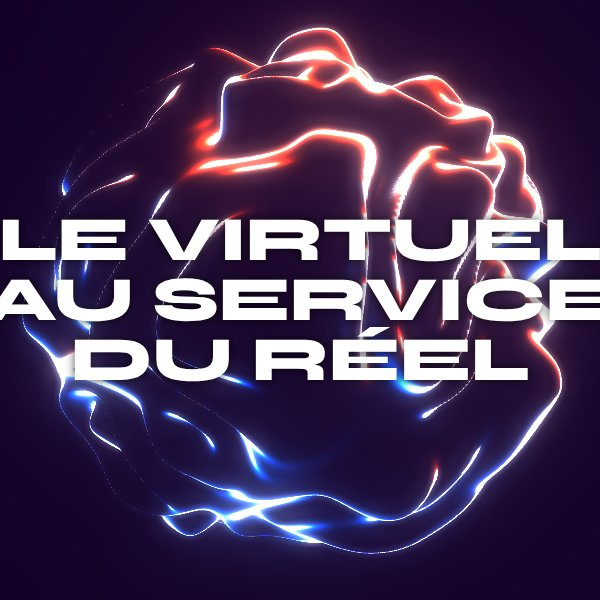
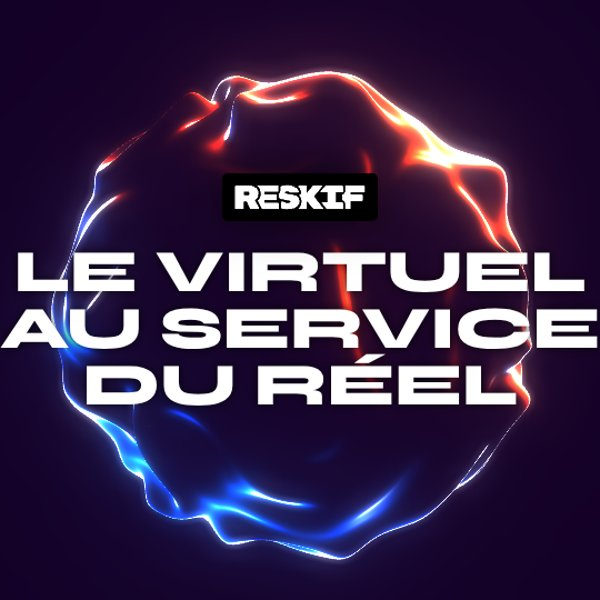
Publication de Reskif (sphere/) : README, accueil, aperçu
- README : description à jour, lien en ligne, section sur la page
  autonome, ses dépendances et ses crédits et licences.
- Accueil : texte de la carte à jour, nouvel aperçu avec le logo.
- sphere/ : retrait des accès de test (reskifState, reskifSeek).

Claude-Session: https://claude.ai/code/session_01Bq8Qq4xFTKRJJcn1Prkq3z

diff --git a/index.html b/index.html
@@ -228,14 +228,15 @@
     <div class="text">
       <span class="kicker">sphere</span>
       <h2>Reskif : le virtuel au service du réel</h2>
-      <p>L'Organic Sphere de Bruno Simon accueille : on plonge dedans pour découvrir Reskif.
-      Un arbre pousse et mène à quatre profils, chacun son élément : le feu, l'air
-      (The Spirit d'Edan Kwan), l'eau, et une statue qui se reconstruit éclat par éclat.</p>
+      <p>Le site de Reskif, en panneaux plein écran. L'Organic Sphere de Bruno Simon
+      rapetisse et tombe dans une flaque ; un arbre procédural en sort et mène à quatre
+      profils, chacun son élément : le feu, l'air (The Spirit d'Edan Kwan), l'eau, et une
+      statue qui se reconstruit éclat par éclat.</p>
       <span class="go">Jouer avec <span>→</span></span>
     </div>
     <div class="strip" style="grid-template-columns:1fr 1fr;background:#0a0414">
       <img src="sphere/apercu-arbre.jpg" alt="Un arbre lumineux, tronc orange et cime bleue" loading="lazy" style="object-fit:cover;aspect-ratio:auto">
-      <img src="sphere/apercu.jpg" alt="La sphère organique, lumineuse, sous le titre Le virtuel au service du réel" loading="lazy" style="object-fit:cover;aspect-ratio:auto">
+      <img src="sphere/apercu.jpg" alt="Le logo Reskif et le titre Le virtuel au service du réel sur la sphère organique" loading="lazy" style="object-fit:cover;aspect-ratio:auto">
     </div>
   </a>
 

diff --git a/sphere/index.html b/sphere/index.html
@@ -2348,9 +2348,6 @@ void main() {
     requestAnimationFrame(tick);
   }
   setView(0);
-  // Lecture seule, pour les tests : où en est l'animation.
-  window.reskifState = () => ({ P, B, branch });
-  window.reskifSeek = v => { P = target = v; };      // pour les tests : figer l'animation à un instant
   requestAnimationFrame(tick);
 })();
 </script>

diff --git a/README.md b/README.md
@@ -14,8 +14,24 @@ piste, avec le script qui fabrique et la planche qui montre le résultat.
 | [`photo/aplats/`](photo/aplats/) | aplats francs, contours noirs et traits de vibration à la Keith Haring, posés sans IA sur n'importe quelle photo |
 | [`photo/aplats/web/`](photo/aplats/web/) | les aplats de `figures.py` calculés par le navigateur, et animés : ils évitent le curseur, un clic les déplace |
 | [`gigot/`](gigot/) | design system de gigot.app : palette, logo, pictogramme, bouton animé et aplats sur photo, façon Keith Haring |
-| [`sphere/`](sphere/) | Reskif : l'Organic Sphere de Bruno Simon, un arbre procédural, puis quatre profils et quatre éléments (feu, air avec The Spirit d'Edan Kwan, eau, buste en éclats) |
+| [`sphere/`](sphere/) | site de Reskif : la sphère de Bruno Simon tombe dans une flaque, un arbre en sort et mène à quatre profils (feu, air avec The Spirit d'Edan Kwan, eau, buste en éclats) — [en ligne](https://vjuju.github.io/design/sphere/) |
 | [`gigot/accueil/`](gigot/accueil/) | maquette de l'accueil de gigot.app avec le design system : cartes, aperçu au survol, fiche, clair / sombre |
+
+## Reskif (`sphere/`)
+
+Une page autonome : HTML, CSS et JS dans `sphere/index.html`, three.js 0.132.2 et
+les polices chargés par CDN, rien à installer. Elle doit être servie en HTTP
+(le buste, `models/LeePerrySmith.json`, est chargé par `fetch`).
+
+Crédits et licences, gardés dans le dossier :
+- sphère : [Organic Sphere](https://github.com/brunosimon/organic-sphere) de Bruno Simon
+  (dépôt sans licence : accord de l'auteur à demander avant un usage public) ;
+- particules de l'air : [The Spirit](https://github.com/edankwan/The-Spirit) d'Edan Kwan,
+  MIT (`sphere/LICENSE-The-Spirit.md`) ;
+- buste : scan Lee Perry-Smith d'Infinite-Realities, CC BY 3.0
+  (`sphere/models/LeePerrySmith-LICENSE.txt`) ;
+- arbre : d'après les croissances procédurales de Marius Ballot, code original ;
+- logo : `sphere/reskif_logo.svg`, repris de reskif.org.
 
 ## Publication
 
